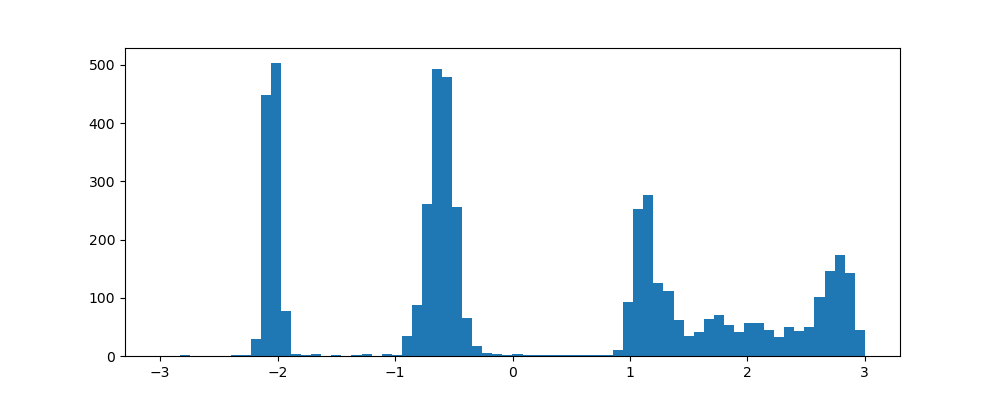
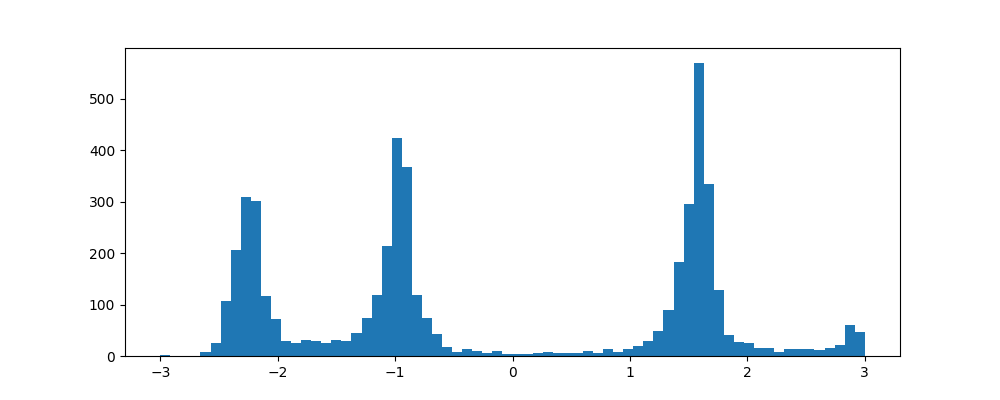
generic commit

diff --git a/scripts/transport/kvae_flow.py b/scripts/transport/kvae_flow.py
@@ -721,7 +721,7 @@ def run():
     N = 2000
     batch_size = 2000
     two_d_exp(ref_gen, sample_swiss_roll, N=N, n_iter=49, plt_range=[[-3, 3], [-3, 3]], process_funcs=[],
-              skip_idx=1, slice_vals=[0], slice_range=[-3,3], exp_name='exp', n_transports=30, vmax=.25,
+              skip_idx=1, slice_vals=[0], slice_range=[-3,3], exp_name='exp', n_transports=40, vmax=.25,
               batch_size = batch_size, reg_lambda= 1e-5, N_plot = 5000)
 
     #vl_exp(batch_size=4500, n_transports=125)
